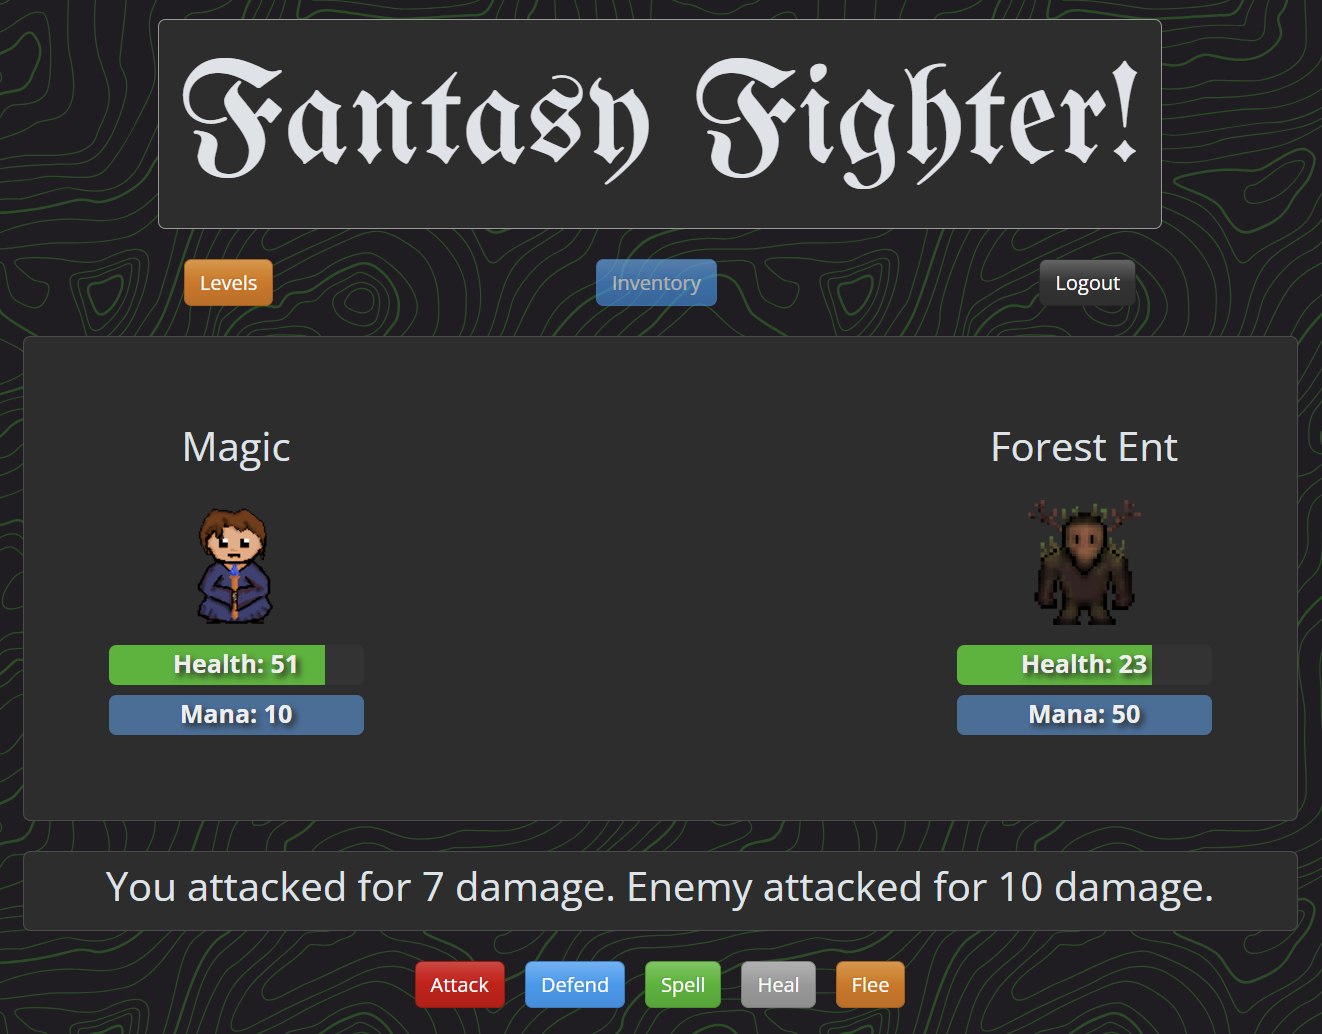
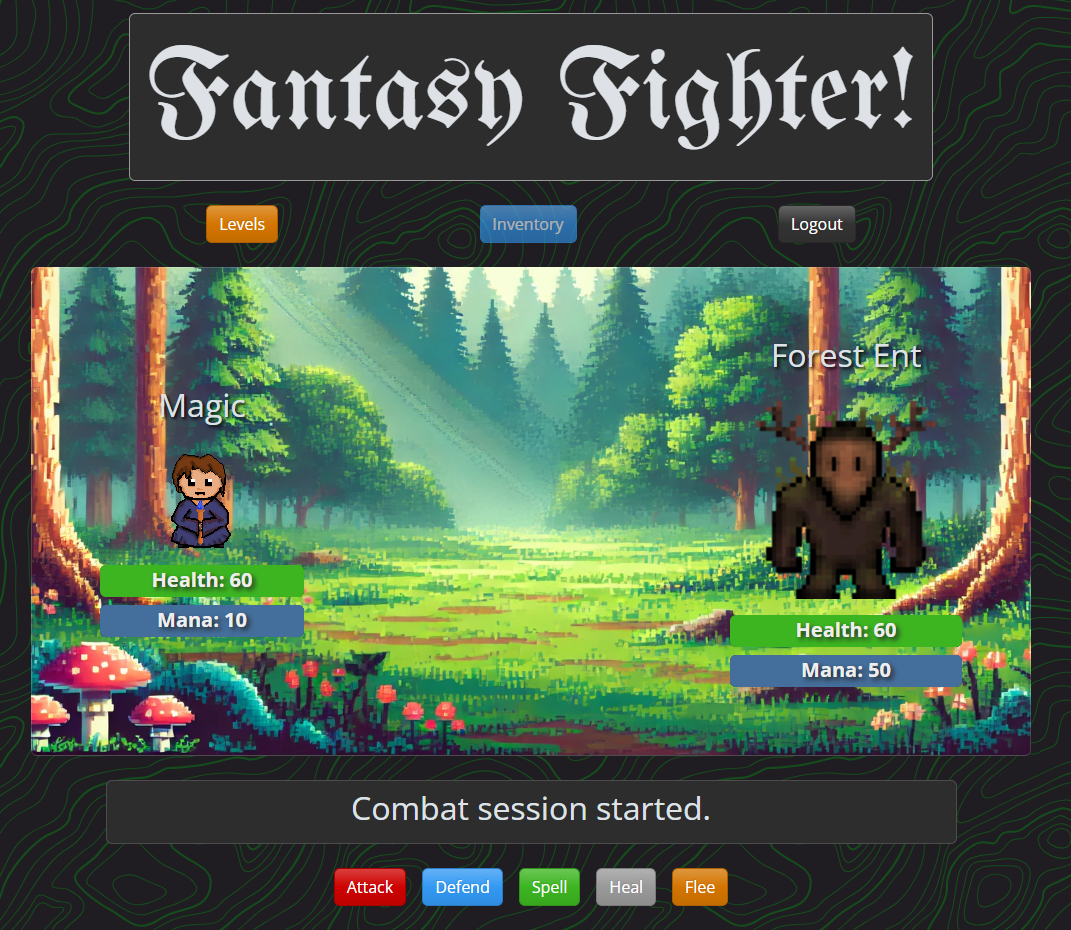
Image test was correct, had to adjust file structure for Render deploy. Slight other css updates

diff --git a/client/src/pages/Combat.tsx b/client/src/pages/Combat.tsx
@@ -198,7 +198,7 @@ const Combat = () => {
           style={{ backgroundImage: level ? `url(${level.background_sprite})` : 'none' }}
           >
             <div className="player-info p-5 details-card">
-              <h2 className="text-shadow">{player.username}</h2>
+              <h2 className="text-shadow-bold">{player.username}</h2>
               <img src={`${player.sprite}`} alt={player.username} className="m-3"/>
               <div className="progress mb-2 position-relative custom-progress-bar">
                 <div
@@ -228,7 +228,7 @@ const Combat = () => {
               </div>
             </div>
             <div className="enemy-info p-5 details-card">
-              <h2 className="text-shadow">{enemy.name}</h2>
+              <h2 className="text-shadow-bold">{enemy.name}</h2>
               <img src={`${enemy.sprite}`} alt={enemy.name} className="m-3 enemy-sprite"/>
               <div className="progress mb-2 position-relative custom-progress-bar">
                 <div

diff --git a/client/src/assets/custom.css b/client/src/assets/custom.css
@@ -21,10 +21,15 @@
   background-size: 125%;
   background-repeat: no-repeat;
   background-position: bottom;
+  background-size: cover;
 }
 
 .text-shadow {
   text-shadow: 2px 2px 3.5px rgba(0, 0, 0, 1);
+}
+
+.text-shadow-bold {
+  text-shadow: 5px 5px 8px rgba(0, 0, 0, 1), -5px -5px 8px rgba(0, 0, 0, 1);
 }
 
 .enemy-sprite {

diff --git a/server/src/routes/auth.ts b/server/src/routes/auth.ts
@@ -39,7 +39,7 @@ router.post('/create', (req, res, next): void => {
         attack: 15,
         defense: 1,
         username: newUser.username,
-        sprite: "/assets/heroblue.gif",
+        sprite: "/assets/heroBlue.gif",
         inventory: [],
       });
 
